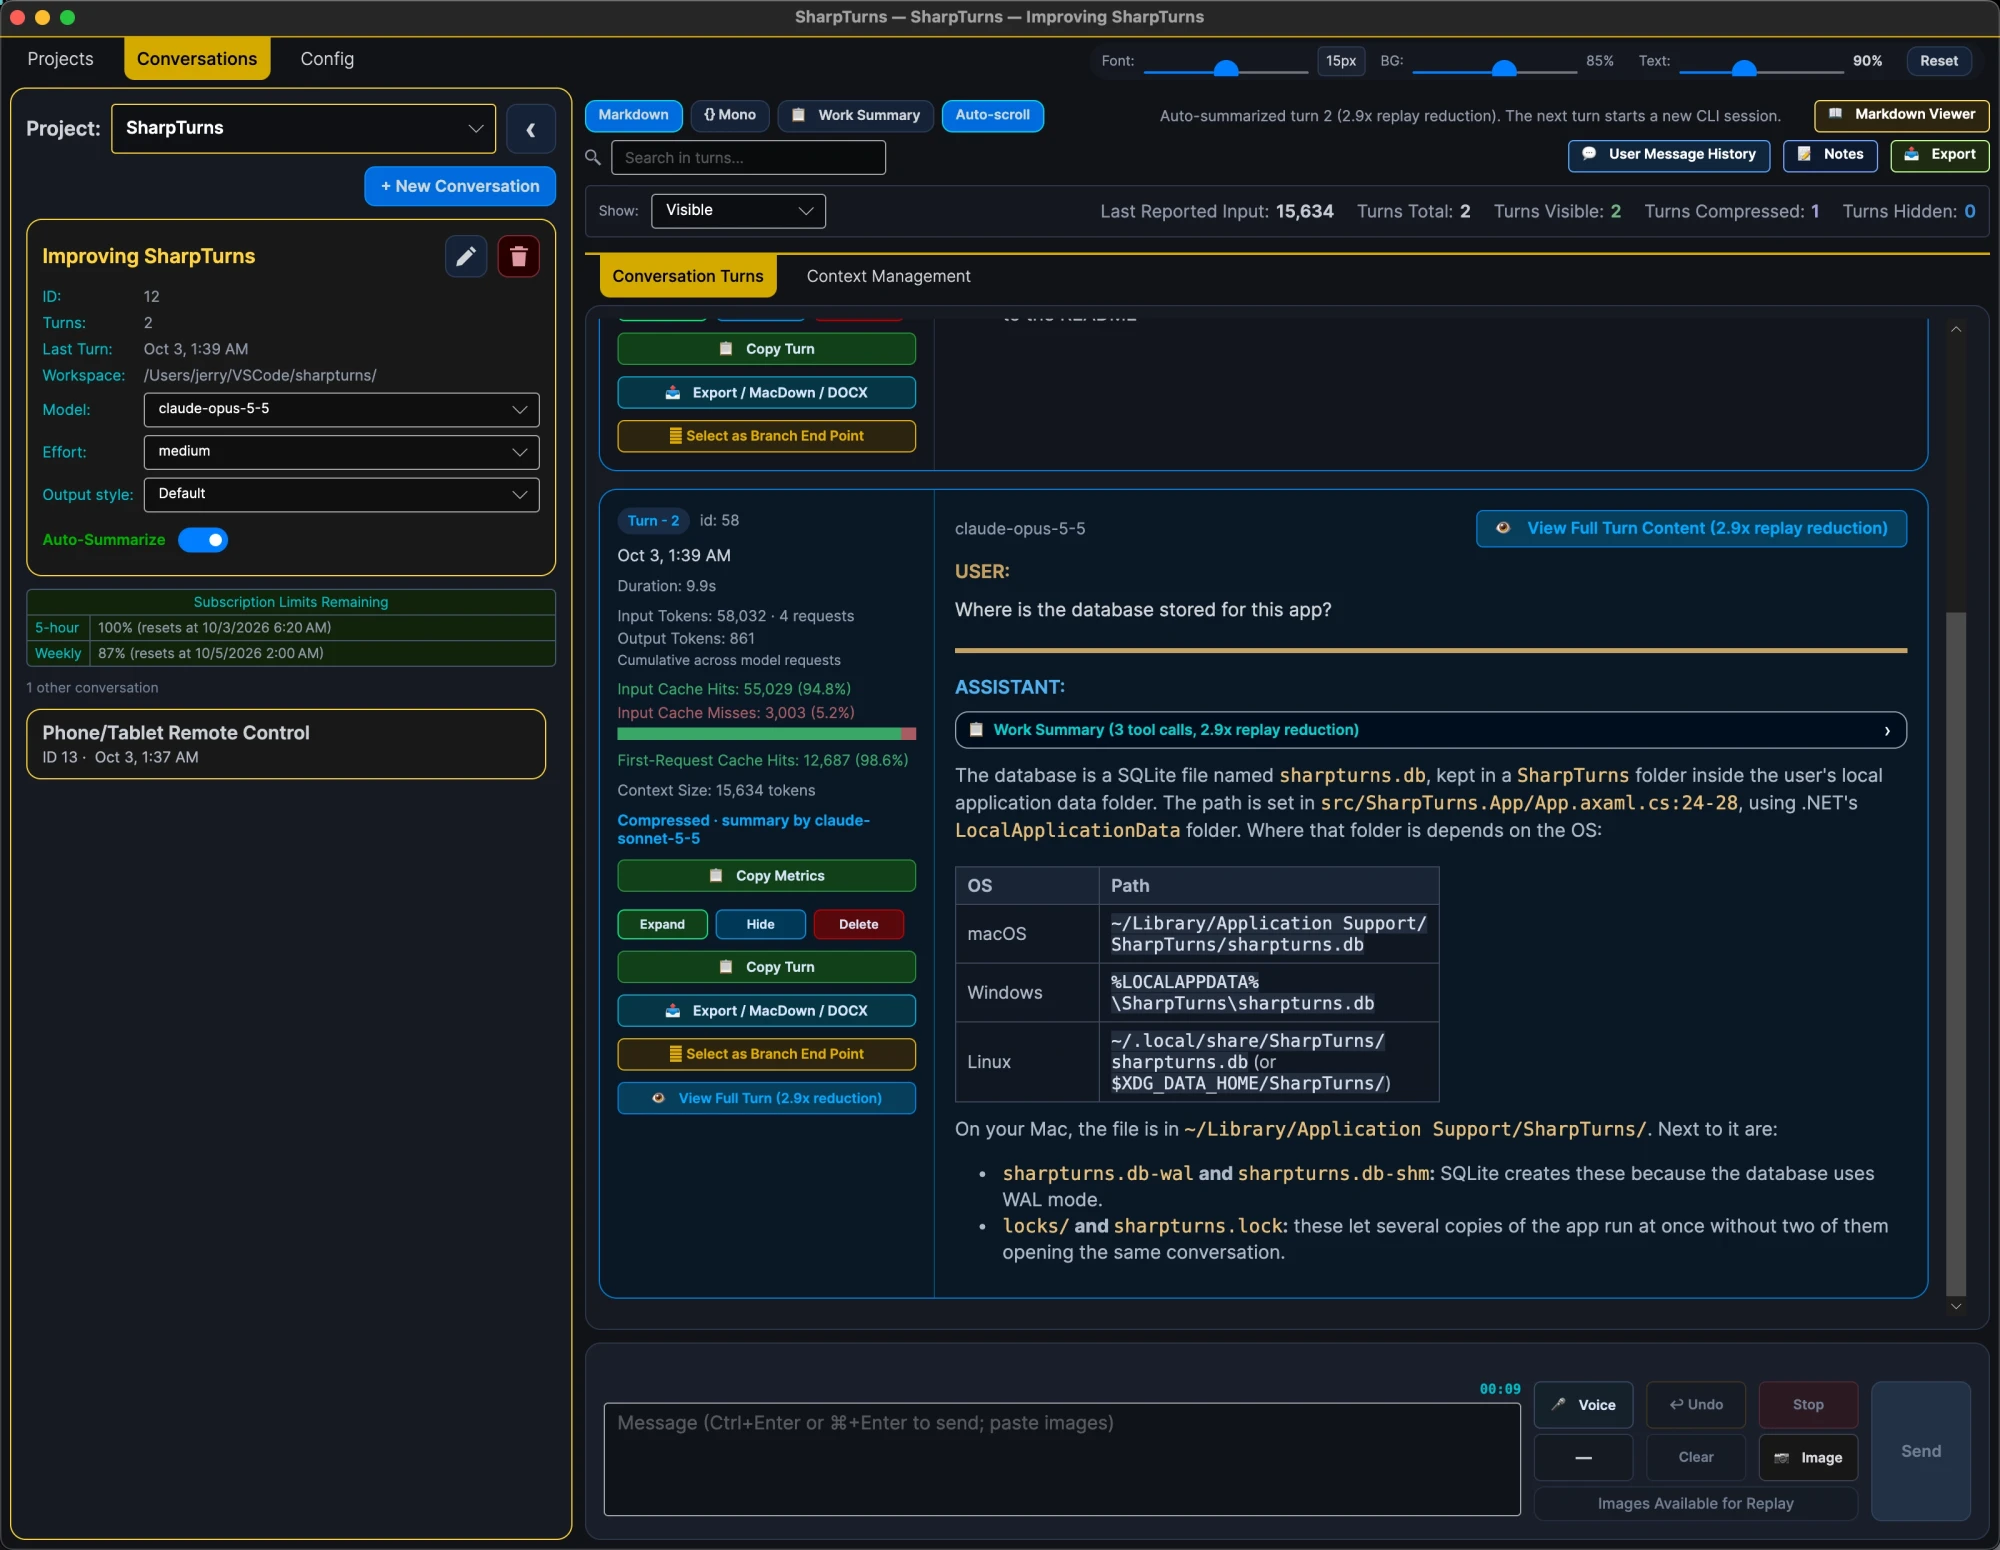
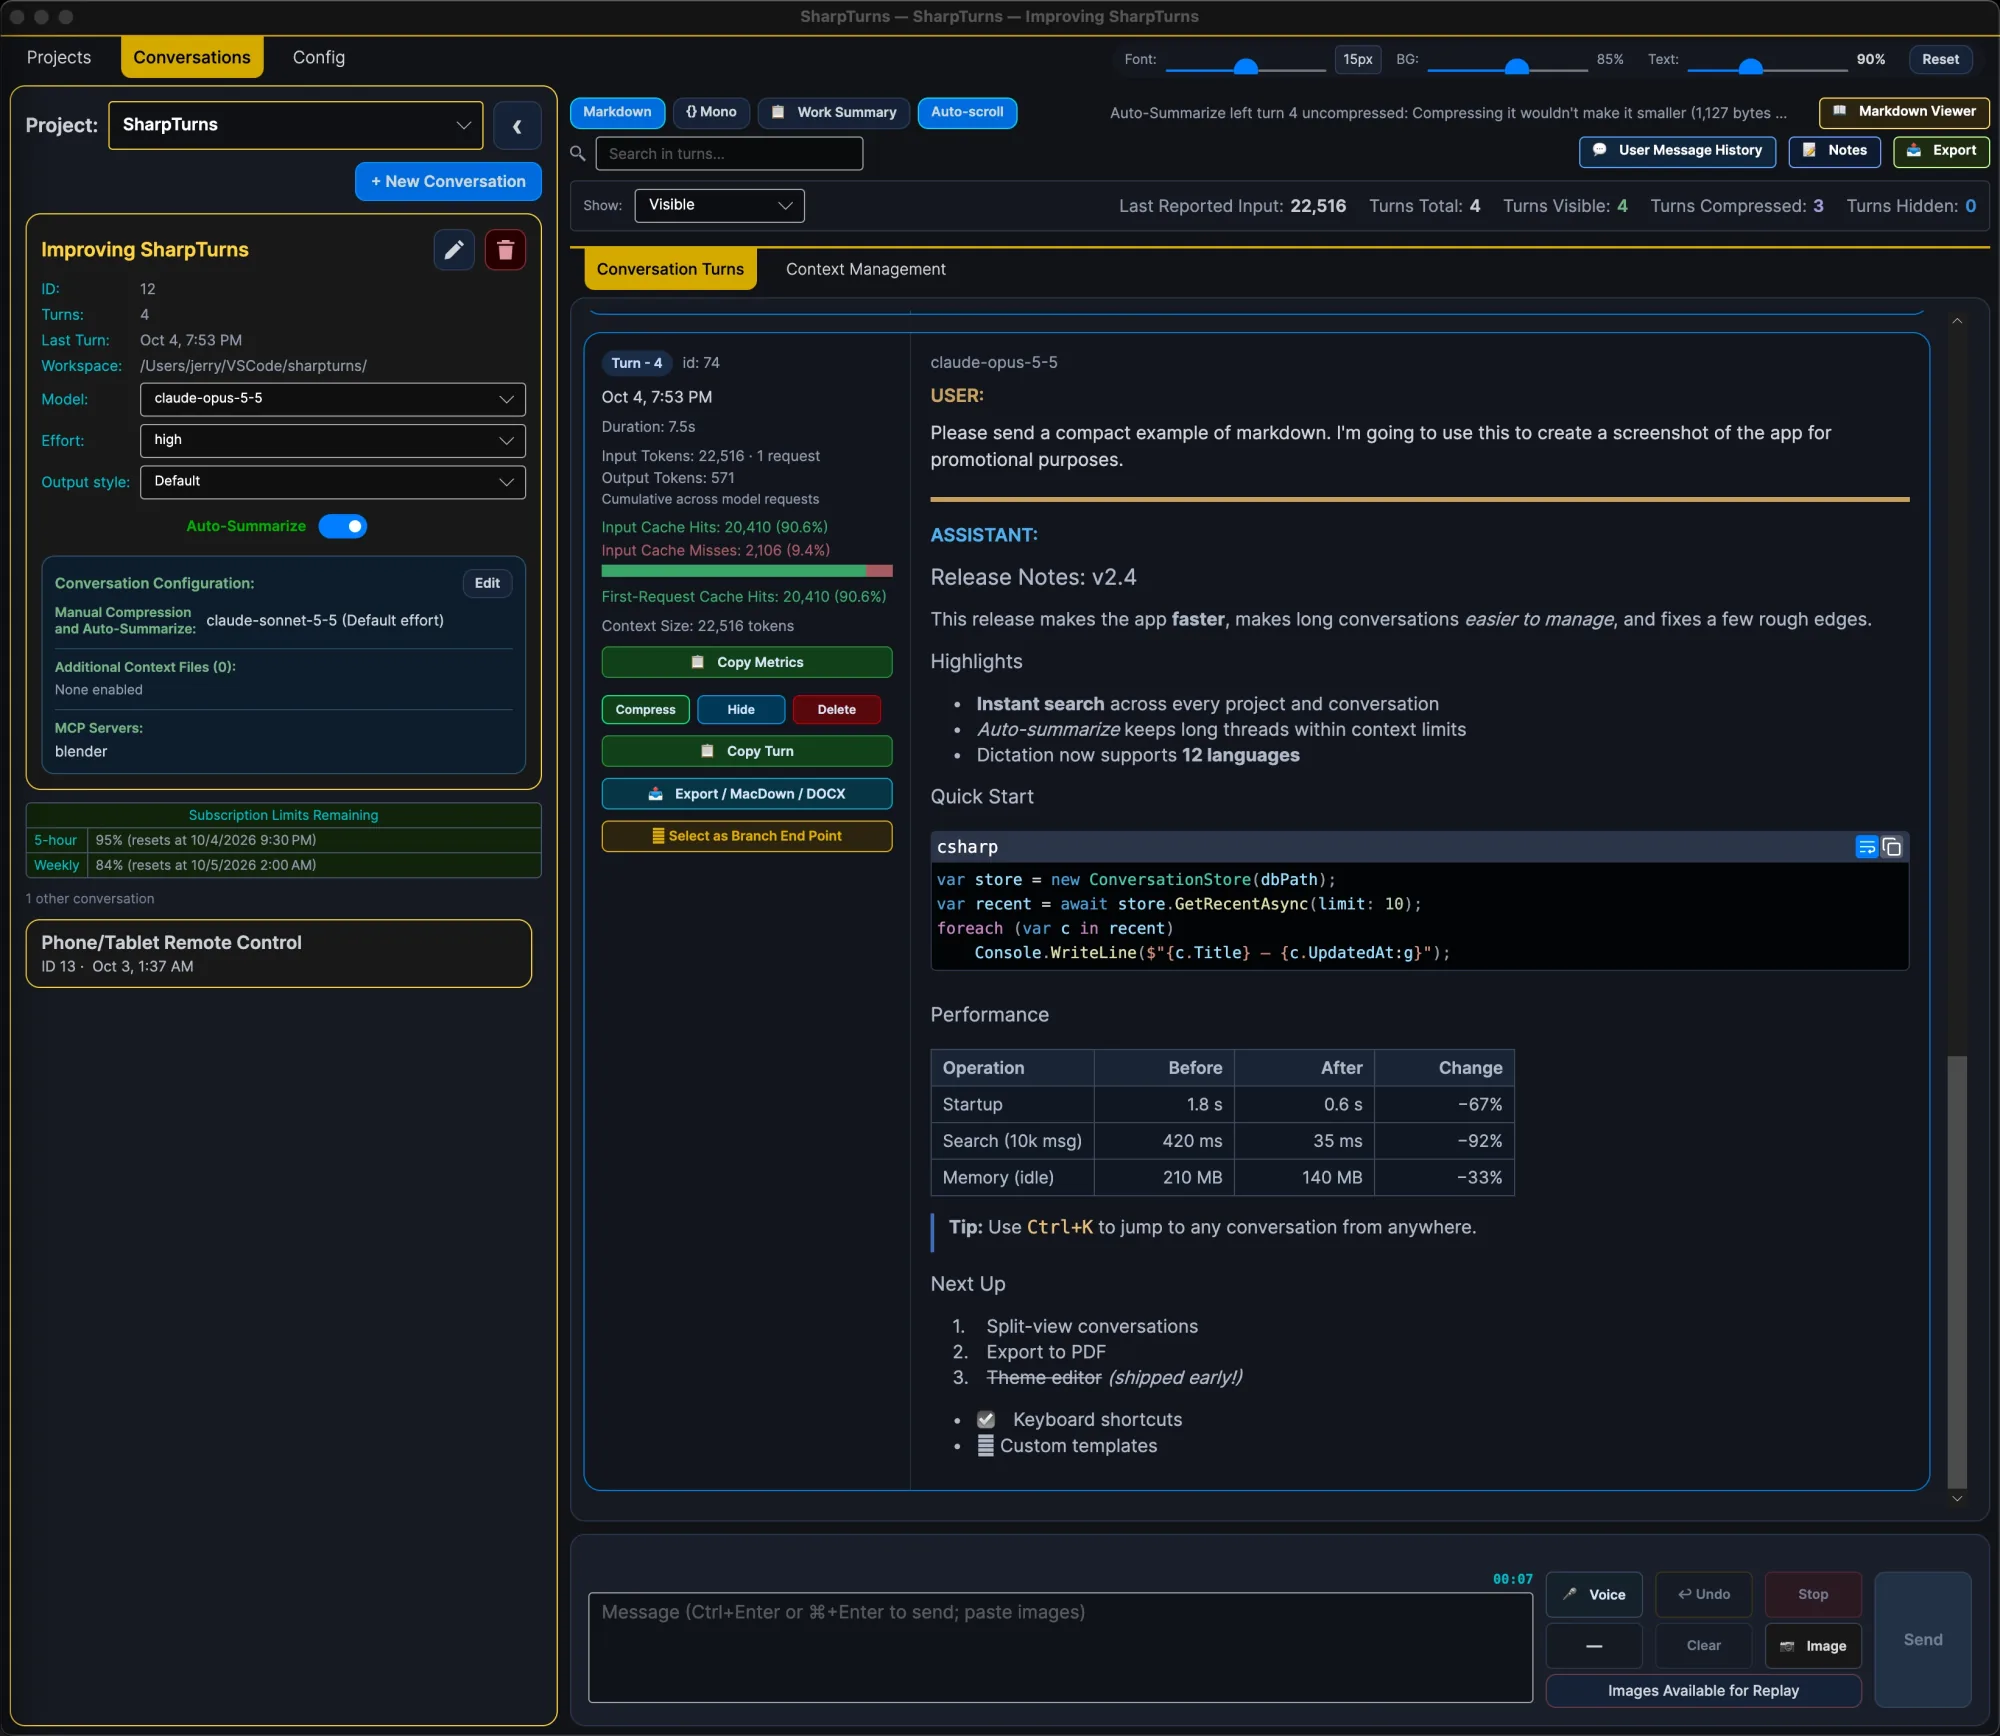
docs: update the README screenshots

diff --git a/README.md b/README.md
@@ -16,9 +16,9 @@ The name has two halves:
 SharpTurns is an independent project. It is not affiliated with or endorsed by
 Anthropic.
 
-![The SharpTurns main window: the project and conversation list on the left,
-and a compressed turn on the right with its metrics, work summary, and
-rendered Markdown response](docs/images/main-window.webp)
+![The SharpTurns main window: the conversation card and list on the left, and
+a turn on the right with its metrics and a rendered Markdown response with
+headings, lists, a code block, and a table](docs/images/main-window.webp)
 
 ## Why context management matters
 
@@ -134,6 +134,11 @@ focused on what matters, and fewer tokens sent with every request.
 - **Dictation** with your own Deepgram API key (optional).
 - **Several instances at once**, with an optional Instance Manager that docks
   them beside it and launches, reloads, and ends them.
+
+![Two compressed turns, each with its metrics, a collapsed work summary
+showing its replay reduction, and a View Full Turn Content button; the first
+has an attached image with a checkbox to include it in future
+turns](docs/images/compressed-turns.webp)
 
 ## How it uses the CLI
 
